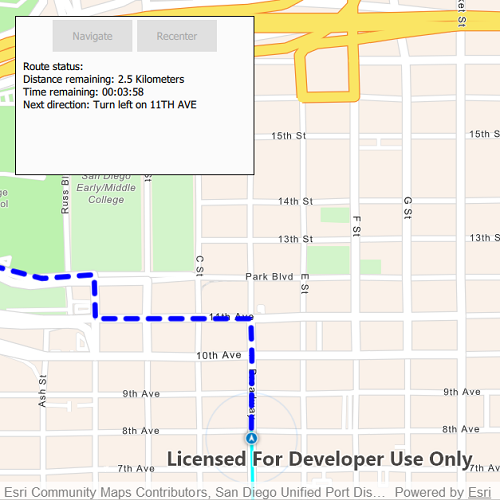
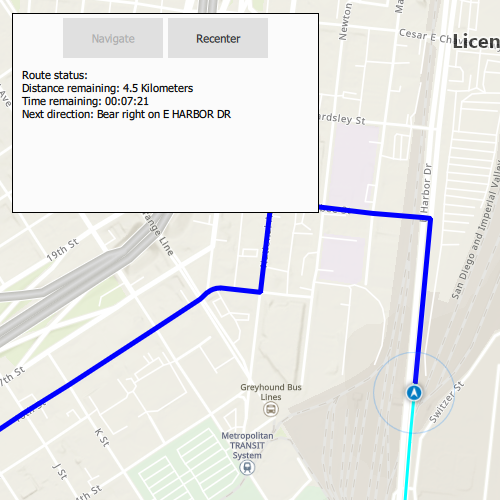
Add readme and screenshot and metadata

diff --git a/ArcGISRuntimeSDKQt_QMLSamples/Routing/NavigateARouteWithRerouting/README.md b/ArcGISRuntimeSDKQt_QMLSamples/Routing/NavigateARouteWithRerouting/README.md
@@ -1,52 +1,54 @@
-# Navigate route
+# Navigate route with rerouting
 
-Use a routing service to navigate between points.
+Navigate between two points and dynamically recalculate an alternate route when the original route is unavailable.
 
 ![](screenshot.png)
 
 ## Use case
 
-Navigation is often used by field workers while traveling between points to get live directions based on their location.
+While traveling between destinations, field workers use navigation to get live directions based on their locations. In cases where a field worker makes a wrong turn, or if the route suggested is blocked due to a road closure, it is necessary to calculate an alternate route to the original destination.
 
 ## How to use the sample
 
-Click 'Navigate' to simulate travelling and to receive directions from a preset starting point to a preset destination. Click 'Recenter' to recenter the navigation display.
+Click 'Navigate' to simulate traveling and to receive directions from a preset starting point to a preset destination. Observe how the route is recalculated when the simulation does not follow the suggested route. Check 'Voice Directions' to activate announcing maneuvers. Click 'Reset' to start the simulation from the beginning.
 
 ## How it works
 
 1. Create a `RouteTask` using a URL to an online route service.
-2. Generate default `RouteParameters` using `RouteTask.createDefaultParameters()`.
+2. Generate default `RouteParameters` using `createDefaultParameters`.
 3. Set `returnStops` and `returnDirections` on the parameters to true.
-4. Add `Stop`s to the parameters for each destination using `setStops(stops)`.
-5. Solve the route using `RouteTask.solveRoute(routeParameters)` to get a `RouteResult`.
+4. Add `Stop`s to the parameters `stops` collection for each destination.
+5. Solve the route using to get a `RouteResult`.
 6. Create a `RouteTracker` using the route result, and the index of the desired route to take.
-7. Use `trackRuntimeLocation(Location)` to track the location of the device and update the route tracking status.
-8. Use the `trackingStatusResultChanged` signal to get the `TrackingStatus` and use it to display updated route information. Tracking status includes a variety of information on the route progress, such as the remaining distance, remaining geometry or traversed geometry (represented by a `Polyline`), or the remaining time, amongst others.
-9. Use the `newVoiceGuidanceResultChanged` signal to get the `VoiceGuidance` whenever new instructions are available. From the voice guidance, get the `string` representing the directions and use a text-to-speech engine to output the maneuver directions.
-10. You can also query the tracking status for the current `DirectionManeuver` index, retrieve that maneuver from the `Route` and get its direction text to display in the GUI.
-11. To establish whether the destination has been reached, get the `DestinationStatus` from the tracking status. If the destination status is `Enums.DestinationStatusReached`, we have arrived at the destination and can stop routing. If there are several destinations in your route, and the remaining destination count is greater than 1, switch the route tracker to the next destination.
+7. Enable rerouting in the route tracker. Use `ReroutingStrategy::toNextWaypoint` to specify that in the case of a reroute the new route goes from present location to next waypoint or stop.
+8. Track the location of the device and update the route tracking status.
+9. Add a listener to capture and get the `TrackingStatus` and use it to display updated route information. Tracking status includes a variety of information on the route progress, such as the remaining distance, remaining geometry or traversed geometry (represented by a `Polyline`), or the remaining time (`Double`), amongst others.
+10. Add a `NewVoiceGuidanceListener` to get the `VoiceGuidance` whenever new instructions are available.
+11. You can also query the tracking status for the current `DirectionManeuver` index, retrieve that maneuver from the `Route` and get its direction text to display in the GUI.
+12. To establish whether the destination has been reached, get the `DestinationStatus` from the tracking status. If the destination status is `REACHED`, and the `remainingDestinationCount` is 1, you have arrived at the destination and can stop routing. If there are several destinations in your route, and the remaining destination count is greater than 1, switch the route tracker to the next destination.
 
 ## Relevant API
 
 * DestinationStatus
 * DirectionManeuver
 * Location
+* LocationDataSource
+* ReroutingStrategy
 * Route
 * RouteParameters
 * RouteTask
 * RouteTracker
-* SimulatedLocationDataSource
 * Stop
 * VoiceGuidance
 
 ## About the data
 
-The route taken in this sample interacts with three locations:
-- Starts at the San Diego Convention Center, site of the annual Esri User Conference
-- Stops at the USS San Diego Memorial
-- Ends at the Fleet Science Center, San Diego.
+The route taken in this sample goes from the San Diego Convention Center, site of the annual Esri User Conference, to the Fleet Science Center, San Diego.
+
+## Additional information
+
+The route tracker will start a rerouting calculation automatically as necessary when the device's location indicates that it is off-route. The route tracker also validates that the device is "on" the transportation network, if it is not (e.g. in a parking lot) rerouting will not occur until the device location indicates that it is back "on" the transportation network.
 
 ## Tags
 
 directions, maneuver, navigation, route, turn-by-turn, voice
-

diff --git a/ArcGISRuntimeSDKQt_CppSamples/Routing/NavigateARouteWithRerouting/README.md b/ArcGISRuntimeSDKQt_CppSamples/Routing/NavigateARouteWithRerouting/README.md
@@ -1,31 +1,54 @@
-# Navigate a route with rerouting
+# Navigate route with rerouting
 
-Navigate a route with rerouting
-This sample demonstrates ...
-This is **why** you would do it this way ...
+Navigate between two points and dynamically recalculate an alternate route when the original route is unavailable.
 
 ![](screenshot.png)
 
+## Use case
+
+While traveling between destinations, field workers use navigation to get live directions based on their locations. In cases where a field worker makes a wrong turn, or if the route suggested is blocked due to a road closure, it is necessary to calculate an alternate route to the original destination.
+
 ## How to use the sample
-e.g. Use the input controls to define a ... Click the "Go" button to ...
+
+Click 'Navigate' to simulate traveling and to receive directions from a preset starting point to a preset destination. Observe how the route is recalculated when the simulation does not follow the suggested route. Check 'Voice Directions' to activate announcing maneuvers. Click 'Reset' to start the simulation from the beginning.
 
 ## How it works
-e.g. In the `GeoView.Tapped` event, features in the `Map` are selected using an `Envelope` defined by the user's tap location ...
+
+1. Create a `RouteTask` using a URL to an online route service.
+2. Generate default `RouteParameters` using `createDefaultParameters`.
+3. Set `returnStops` and `returnDirections` on the parameters to true.
+4. Add `Stop`s to the parameters `stops` collection for each destination.
+5. Solve the route using to get a `RouteResult`.
+6. Create a `RouteTracker` using the route result, and the index of the desired route to take.
+7. Enable rerouting in the route tracker. Use `ReroutingStrategy::toNextWaypoint` to specify that in the case of a reroute the new route goes from present location to next waypoint or stop.
+8. Track the location of the device and update the route tracking status.
+9. Add a listener to capture and get the `TrackingStatus` and use it to display updated route information. Tracking status includes a variety of information on the route progress, such as the remaining distance, remaining geometry or traversed geometry (represented by a `Polyline`), or the remaining time (`Double`), amongst others.
+10. Add a `NewVoiceGuidanceListener` to get the `VoiceGuidance` whenever new instructions are available.
+11. You can also query the tracking status for the current `DirectionManeuver` index, retrieve that maneuver from the `Route` and get its direction text to display in the GUI.
+12. To establish whether the destination has been reached, get the `DestinationStatus` from the tracking status. If the destination status is `REACHED`, and the `remainingDestinationCount` is 1, you have arrived at the destination and can stop routing. If there are several destinations in your route, and the remaining destination count is greater than 1, switch the route tracker to the next destination.
 
 ## Relevant API
- - ClassName1
- - MethodName
 
-## Offline data
-Read more about how to set up the sample's offline data [here](http://links.esri.com/ArcGISRuntimeQtSamples).
+* DestinationStatus
+* DirectionManeuver
+* Location
+* LocationDataSource
+* ReroutingStrategy
+* Route
+* RouteParameters
+* RouteTask
+* RouteTracker
+* Stop
+* VoiceGuidance
 
-Link | Local Location
----------|-------|
-|[San Francisco Streets TPK](https://www.arcgis.com/home/item.html?id=3f1bbf0ec70b409a975f5c91f363fe7d)| `<userhome>`/ArcGIS/Runtime/Data/tpk/SanFrancisco.tpk |
+## About the data
+
+The route taken in this sample goes from the San Diego Convention Center, site of the annual Esri User Conference, to the Fleet Science Center, San Diego.
 
 ## Additional information
-A standard level license is required to ...
+
+The route tracker will start a rerouting calculation automatically as necessary when the device's location indicates that it is off-route. The route tracker also validates that the device is "on" the transportation network, if it is not (e.g. in a parking lot) rerouting will not occur until the device location indicates that it is back "on" the transportation network.
 
 ## Tags
-Routing, Network analysis, Geocode
 
+directions, maneuver, navigation, route, turn-by-turn, voice
